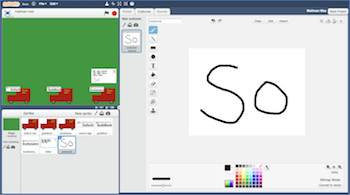
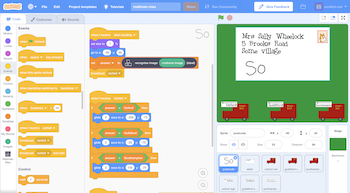
docs: Updated Mailman Max to use Scratch 3

diff --git a/public/components/worksheets/worksheets.controller.js b/public/components/worksheets/worksheets.controller.js
@@ -131,7 +131,7 @@
                     description : translations['WORKSHEETS.MAILMANMAX.DESCRIPTION'],
                     difficulty : 'Beginner',
                     type : 'images',
-                    maketypes : [ 'scratch2' ],
+                    maketypes : [ 'scratch3' ],
                     image : 'static/images/project-mailmanmax.png',
                     tags : [ 'optical character recognition', 'handwriting recognition', 'image classification' ],
                     teachersnotes : 'https://github.com/IBM/taxinomitis-docs/raw/master/teachers-notes/pdf/teachersnotes-mailmanmax.pdf',
